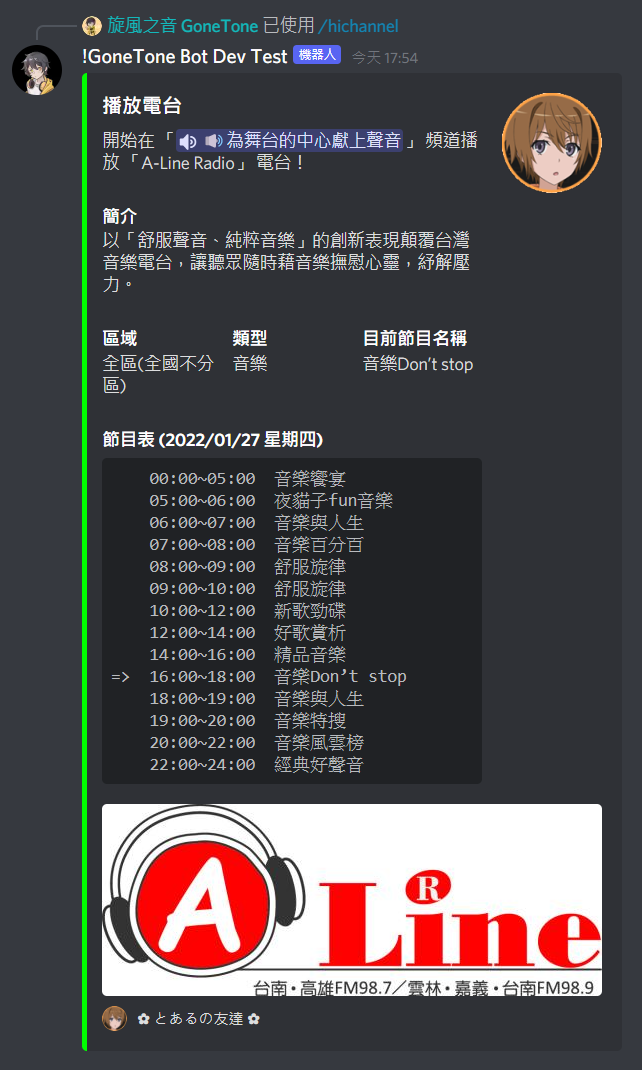
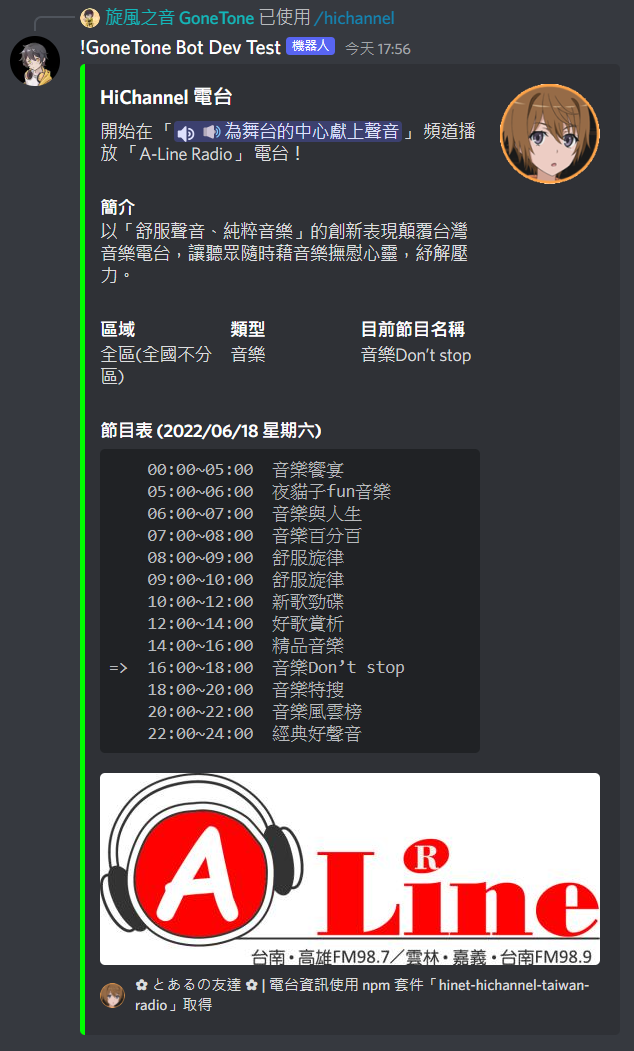
Update hichannel.md

diff --git a/guide/music/hichannel.md b/guide/music/hichannel.md
@@ -1,8 +1,8 @@
-# HiNet hichannel 台灣電台
+# HiNet HiChannel 台灣電台
 
 [[toc]]
 
-## 播放電台
+## 播放 HiChannel 電台
 
 ### 指令
 
@@ -26,7 +26,7 @@
 
 | 參數名稱  | 類型     | 說明   | 必要  |
 |-------|--------|------|:---:|
-| radio | String | 選擇電台 |  V  |
+| radio | String | 電台名稱 |  V  |
 
 ### 結果
 

diff --git a/guide/music/README.md b/guide/music/README.md
@@ -1,3 +1,3 @@
 # 音樂分類下的指令或功能
 
-- [HiNet hichannel 台灣電台](hichannel.md)
+- [HiNet HiChannel 台灣電台](hichannel.md)
